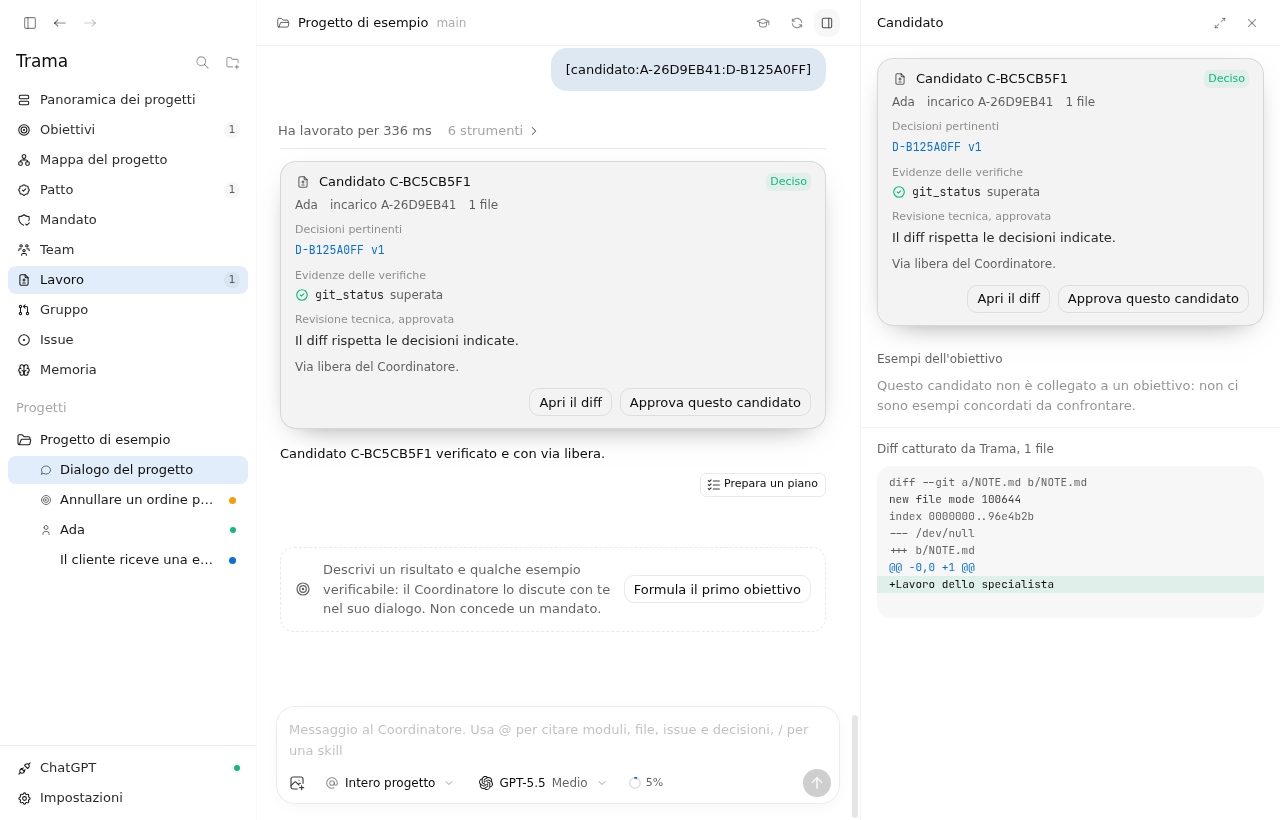
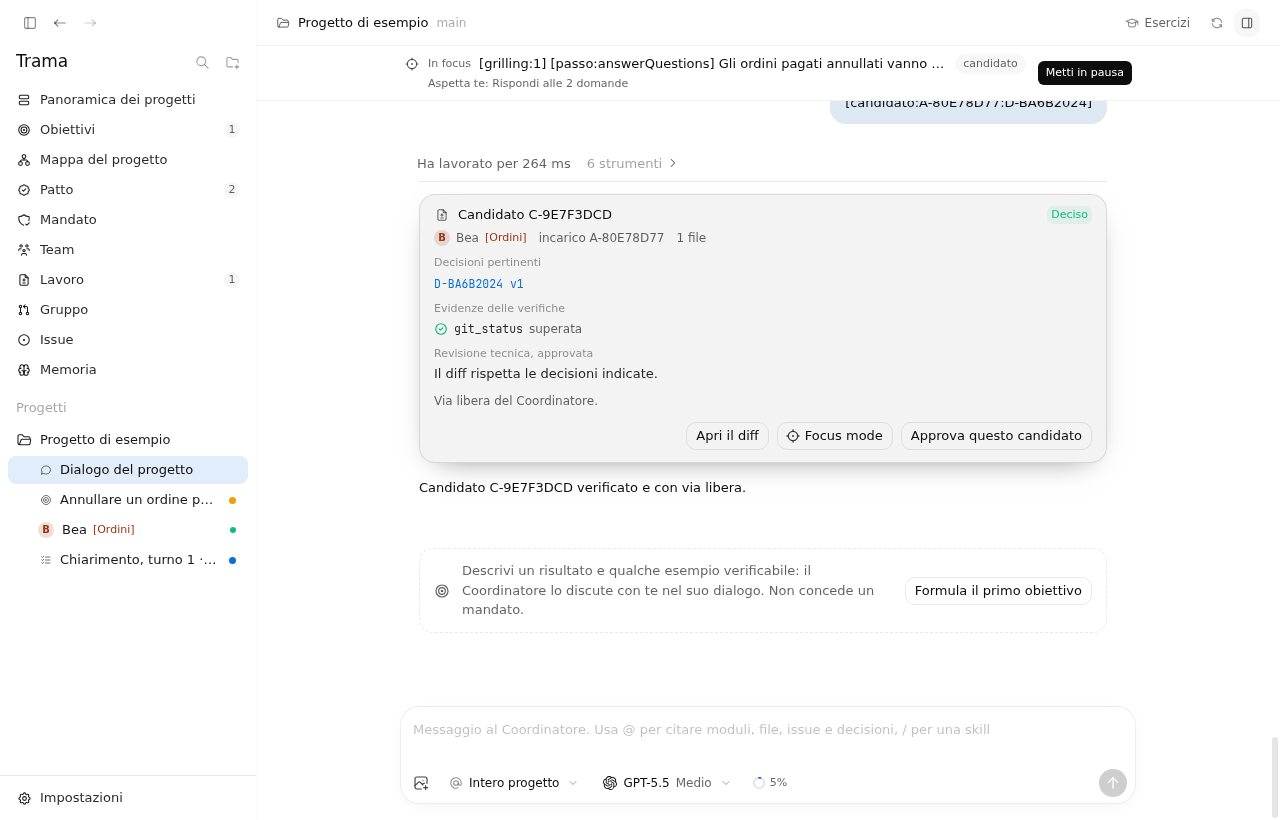
docs: refresh the README with the current features and status
Cover the focused work loop, the AI Hero method run natively end to
end, the assignment contract and developer report, presence and
overlap warnings, focus mode with native code review, Antigravity in
every role and the protected main branch. Update the status section
with the 26 September live Codex run and refresh the screenshots with
ui-check.

diff --git a/README.md b/README.md
@@ -18,7 +18,7 @@
 </div>
 
 > [!WARNING]
-> Trama is in **alpha**. The base path has run with real Claude and Pi accounts, but no change has yet gone from request to verified candidate on a real project. Read [Status and known limits](#status-and-known-limits) before relying on it.
+> Trama is in **alpha**. The base path has run with real Claude and Pi accounts. The first live run with real Codex (26 September, `gpt-6-luna`) went from a request to a developer's finished worktree, then stopped short of a verified candidate on a known bug ([issue #67 comment](https://github.com/emanueledenaro/trama/issues/67), [#204](https://github.com/emanueledenaro/trama/issues/204)). Read [Status and known limits](#status-and-known-limits) before relying on it.
 
 ## Why Trama
 
@@ -32,23 +32,27 @@ Trama puts one **Coordinator** between you and the agents:
 
 ## Features
 
-- **Grilling before planning.** A request is clarified in numbered rounds of decision cards, each with a recommended answer, using the original [`grilling`](docs/aihero-attribution.md) skill. The plan starts only when the round is answered.
-- **A full team per project.** The developers the Coordinator proposes, plus eleven fixed roles (QA, UX, research, documentation and domain, bug triage, spec review, Clean Code, regression guardian, security, performance, DevOps), each with its moment in the flow.
-- **Goals with examples.** Outcomes with accepted and rejected examples that tasks, candidates and decisions link to explicitly.
+- **The AI Hero method, run natively.** A request is clarified in numbered rounds with `grilling`; `domain-modeling` proposes glossary terms and ADRs from the decisions taken; `to-spec` turns the plan into a spec with the seams you confirm; `to-tickets` splits it into vertical slices with their acceptance criteria. Each developer ships a slice with `implement` and `tdd`. Bug triage, failed-check diagnosis and Clean Code's architecture review start on their own within the mandate. Every skill keeps Matt Pocock's original text, with a thin Trama binding.
+- **A focused work loop.** The chat leads with the task in focus, its phase and the one next step allowed right now; the rest wait in a queue, started ones first. Inside the mandate the Coordinator takes its own next moves - preparing the plan, assigning work, running checks - and stops only for product decisions, the mandate, the team and the merge.
+- **An assignment contract and a developer's report.** Every task carries its goal, the seams to test, the Pact decisions it depends on and the checks required; Trama refuses an incomplete one. Each developer closes with a structured report of files touched, tests written and seams covered - a claim, never evidence.
+- **Presence and collaboration.** The map, the focus bar and the Team view show who, person or agent, is working on which branch and files, shared over dedicated git refs with your consent. Overlaps are flagged at three levels, same module, same file, real conflict, and the Coordinator itself steers new assignments away from files a colleague already has open.
+- **Focus mode with native code review.** Open a candidate and Trama runs its real checks first, then two read-only passes of the `code-review` skill in parallel, Standards and Spec, against the candidate's base commit.
+- **Nine providers, every role.** Codex, Claude, Cursor, Grok, Droid, Devin, OpenCode, Antigravity and Pi behind one runtime interface. Antigravity now works in every role, not only for developers: read-only for the Coordinator, planners, reviewers and checks, edits only inside a developer's own worktree.
 - **Checks Trama runs itself.** `git_status`, `git_diff_check`, `swift_build`, `swift_test`, `node_test` and `node_typecheck`, with Node checks in a sandbox that allows only local networking.
-- **Nine providers.** Codex, Claude, Cursor, Grok, Droid, Devin, OpenCode, Antigravity and Pi behind one runtime interface.
-- **Skills included.** The full set of Matt Pocock's engineering and productivity skills, callable with `/` in the composer.
+- **Goals with examples.** Outcomes with accepted and rejected examples that tasks, candidates and decisions link to explicitly.
 - **Memory and learning.** The Coordinator keeps notes on you and the project, searches past conversations and maintains the skills it learns, ported from Hermes Agent.
 - **Repository map.** Swift and JavaScript/TypeScript projects are indexed into modules from their real paths, with secrets and symlinks excluded.
 
 <table>
   <tr>
-    <td width="50%"><img src="docs/images/readme/decision.png" alt="A decision card with two alternatives and a free answer field"></td>
-    <td width="50%"><img src="docs/images/readme/team.png" alt="The Team panel listing roles by moment"></td>
+    <td width="33%"><img src="docs/images/readme/decision.png" alt="A decision card with two alternatives and a free answer field"></td>
+    <td width="33%"><img src="docs/images/readme/team.png" alt="The Team panel listing fixed roles and developers by moment"></td>
+    <td width="33%"><img src="docs/images/readme/focus-mode.png" alt="Focus mode on a candidate, with its real checks and the Standards and Spec review"></td>
   </tr>
   <tr>
     <td align="center"><sub>A decision card: a concrete case, alternatives with examples, or your own words.</sub></td>
     <td align="center"><sub>The team, moment by moment.</sub></td>
+    <td align="center"><sub>Focus mode: real checks first, then Standards and Spec in parallel.</sub></td>
   </tr>
 </table>
 
@@ -62,7 +66,7 @@ There is no signed release yet, so Trama runs from source.
 
 - macOS, Linux or Windows, with Git and Node.js 22.
 - At least one provider you are already signed in to from its CLI. For Codex this means a **ChatGPT account**: Trama refuses API keys and non-OpenAI providers for Codex, so it never moves you to API billing silently.
-- Optional: [GitHub CLI](https://cli.github.com/) (`gh auth login`) for issues and pull requests.
+- Optional: [GitHub CLI](https://cli.github.com/) (`gh auth login`) for issues, pull requests and presence.
 - Optional: `bubblewrap` on Linux, so Node tests that open a local server can run in Trama's sandbox. macOS uses the built-in `sandbox-exec`.
 
 **Run it**
@@ -81,6 +85,7 @@ npm run dev
 3. Read the Coordinator's study of the project and confirm the developers it proposes.
 4. Send a request. Pick a module as context with `@` or a skill with `/`.
 5. Answer the rounds of questions and the mandate card. Only your answers enter the Pact and the mandate.
+6. Follow the focus bar for the task in focus and the queue behind it. Inside the mandate, the Coordinator keeps moving between rounds on its own; you step in for product decisions, the mandate, the team and the merge.
 
 ## How it works
 
@@ -88,27 +93,30 @@ npm run dev
 flowchart LR
     R[Request] --> G[Grilling rounds]
     G -->|your answers| P[Pact]
-    P --> PL[Plan]
-    PL -->|within the mandate| A[Tasks in worktrees]
+    P --> PL[Spec and slices]
+    PL -->|within the mandate| A[Assignment contract in worktrees]
     A --> C[Candidate]
-    C --> V[Checks run by Trama]
+    C --> V[Checks and focus mode review]
     V --> AP[Your approval]
     AP --> PR[Branch and pull request]
 ```
 
-1. **Clarify.** The Coordinator reads the code for facts and asks you only what the code cannot answer, one round at a time.
+1. **Clarify.** The Coordinator reads the code for facts and asks you only what the code cannot answer, one round at a time, with `grilling`.
 2. **Decide.** Each answer is a versioned decision in the Pact. Changing a decision invalidates only the work that depended on it.
-3. **Delegate.** Within the mandate, the Coordinator assigns tasks to developers. Each works in a dedicated worktree, with its provider and model recorded.
-4. **Verify.** A candidate carries its diff, the decisions it relies on and the check results. Trama runs the checks itself; a later relevant change revokes the approval.
-5. **Publish.** With your explicit action, Trama prepares an immutable commit and opens the pull request through `gh`.
+3. **Plan.** `to-spec` writes the request as a spec with the seams you confirm; `to-tickets` splits it into vertical slices in dependency order.
+4. **Delegate.** Within the mandate, the Coordinator assigns ready slices to developers, one each, through an assignment contract: goal, seams, decisions and checks required. Each works in a dedicated worktree with `implement` and `tdd`, and closes with a structured report.
+5. **Verify.** A candidate carries its diff, the decisions it relies on and the check results Trama ran itself. Focus mode adds a read-only Standards and Spec review on demand. A later relevant change revokes the approval.
+6. **Publish.** With your explicit action, Trama prepares an immutable commit and opens the pull request through `gh`.
 
-The vocabulary (Coordinator, Pact, mandate, candidate, moment) is defined in [CONTEXT.md](CONTEXT.md), and the reasons behind the design are in the [ADRs](docs/adr/).
+Throughout, presence shows who else is on the same files, and the Coordinator avoids assigning work where a colleague already has it open.
+
+The vocabulary (Coordinator, Pact, mandate, candidate, moment, presence, focus mode) is defined in [CONTEXT.md](CONTEXT.md), and the reasons behind the design are in the [ADRs](docs/adr/).
 
 ## Providers
 
 | Provider | Adapter | Tested with a real account |
 | --- | --- | --- |
-| Codex (ChatGPT) | yes | Not yet in the Electron app: the test account had used up its quota ([V09](docs/verifiche/v09-trama-su-trama-2026-09-24.md)) |
+| Codex (ChatGPT) | yes | Live in the Electron app on 26 September with real `gpt-6-luna`: study, team, mandate, assignment contract and a developer's finished worktree. Stopped before a verified candidate, on a bug in `verify_candidate` ([issue #67 comment](https://github.com/emanueledenaro/trama/issues/67), [#204](https://github.com/emanueledenaro/trama/issues/204)) |
 | Claude | yes | Base path: message, Trama tool, interrupt, restart, resume |
 | Pi | yes | Base path: message, Trama tool, interrupt, restart, resume |
 | Cursor, Grok, Devin, OpenCode | yes | No, fake CLIs and servers only |
@@ -124,7 +132,7 @@ The adapters are ported from [Synara](https://github.com/Emanuele-web04/synara) 
 | `TRAMA_CODEX_PATH` | Codex executable to use instead of the one in `PATH` |
 | `TRAMA_DATA_DIR` | Data folder to use instead of the default |
 
-Data lives in the user data folder under `Trama/Desktop`: `~/Library/Application Support/Trama/Desktop` on macOS, `~/.config/Trama/Desktop` on Linux, `%APPDATA%\Trama\Desktop` on Windows. What the Coordinator learns is stored under `Learning/` in the same folder, never in your repository. On first launch Trama imports recent projects from the former SwiftUI version without modifying its files.
+Data lives in the user data folder under `Trama/Desktop`: `~/Library/Application Support/Trama/Desktop` on macOS, `~/.config/Trama/Desktop` on Linux, `%APPDATA%\Trama\Desktop` on Windows. What the Coordinator learns is stored under `Learning/` in the same folder, never in your repository. Presence is shared over `refs/trama/presence/<user>` on your project's `origin`, only with your consent, never in the repository itself. On first launch Trama imports recent projects from the former SwiftUI version without modifying its files.
 
 ## Development
 
@@ -145,32 +153,35 @@ npm run dist        # package with electron-builder
 
 | Path | Contents |
 | --- | --- |
-| `app/src/main` | Main process: repository scanner, Coordinator, MCP tool server on `127.0.0.1`, Pact, mandate, team, goals, checks, GitHub, persistence |
+| `app/src/main` | Main process: repository scanner, Coordinator, MCP tool server on `127.0.0.1`, Pact, mandate, team, goals, checks, presence, GitHub, persistence |
 | `app/src/main/core/providers` | The nine provider adapters behind `AgentRuntime` |
 | `app/src/main/core/learning` | Memory and learning loop ported from [Hermes Agent](https://github.com/NousResearch/hermes-agent) ([ADR 0014](docs/adr/0014-apprendimento-di-hermes.md)) |
 | `app/src/main/core/nativeSkills.ts` | Delivers a bundled skill unchanged, with a binding to Trama's tools |
+| `app/src/main/core/audit.ts` | Focus mode: real checks first, then the `code-review` skill on two read-only sessions |
+| `app/src/main/core/presence.ts` | Presence over dedicated git refs, and overlap checks against colleagues' branches |
 | `app/src/preload` | Typed IPC bridge. The renderer has no Node access |
 | `app/src/renderer` | React, Tailwind CSS 4 and `@base-ui/react` on Synara's design tokens |
-| `app/src/shared` | Shared types and logic: timeline, grilling rounds, team roster |
+| `app/src/shared` | Shared types and logic: timeline, grilling rounds, team roster, presence, overlap |
 | `app/resources/AIHero` | Bundled skills, license and `bundle.json` with every renamed file |
 | `app/resources/DemoProject` | The sample project |
 | `app/test-fixtures/fake-codex.mjs` | Fake app server for tests and `ui-check`. Its replies are not Codex results |
 
 </details>
 
-CI ([`electron.yml`](.github/workflows/electron.yml)) runs type check, tests, build and `ui-check` on Ubuntu with Node 22. The [`release.yml`](.github/workflows/release.yml) workflow builds packages for macOS, Windows and Linux on every `v*` tag; they are signed and notarized only when the signing secrets are set.
+CI ([`electron.yml`](.github/workflows/electron.yml)) runs type check, tests, build and `ui-check` on Ubuntu with Node 22. The [`release.yml`](.github/workflows/release.yml) workflow builds packages for macOS, Windows and Linux on every `v*` tag; they are signed and notarized only when the signing secrets are set. `main` is a protected branch: changes land through a pull request, never a direct push.
 
 ## Status and known limits
 
-- **End to end.** No candidate has yet been declared and verified from start to finish on a real project. The full Codex path still has to run.
-- **Fixed roles.** Under a granted mandate, bug triage, diagnosis of failed checks and Clean Code's architecture review start on their own ([#148](https://github.com/emanueledenaro/trama/issues/148)). The other roles do not run yet: the parallel review of a candidate by every reviewer is still open ([#147](https://github.com/emanueledenaro/trama/issues/147)).
-- **Pull requests.** Publishing is tested up to the branch push. Creating the PR with `gh` has not been tested on a real repository.
-- **Sandbox.** The Node sandbox with local networking is tested on macOS only. On Windows, tests that open a local server fail under the Codex sandbox.
+- **End to end.** No candidate has yet been declared and verified end to end on a real project. The closest live run (26 September, real Codex `gpt-6-luna`) reached a developer's finished worktree and stopped before declaring a candidate, on a bug in `verify_candidate` ([issue #67 comment](https://github.com/emanueledenaro/trama/issues/67), [#204](https://github.com/emanueledenaro/trama/issues/204)).
+- **Candidate gate.** Focus mode reviews one candidate on demand with two axes, Standards and Spec. Running every fixed role over a candidate automatically, in parallel, is still open ([#147](https://github.com/emanueledenaro/trama/issues/147)).
+- **Pull requests.** Publishing is tested up to the branch push. Creating the PR with `gh` has not been tested from the app on a real repository.
+- **Sandbox.** The Node sandbox with local networking is tested on macOS only. On Windows, tests that open a local server fail under the Codex sandbox. The Linux `bubblewrap` path is coded but not tested on a real Linux machine.
 - **Provider switch.** Switching providers mid-conversation is verified only live.
+- **Presence.** Verified against a local bare remote and, once, directly against GitHub. A remote other than GitHub or a local folder, and a repository whose CI triggers on any push, are not verified.
 - **Distribution.** No signed or notarized package has been produced yet.
 - **Planning docs.** Some documents in `docs/` still describe the SwiftUI version.
 
-The complete list is in [ADR 0011](docs/adr/0011-app-desktop-electron-con-design-synara.md) and in [GitHub Issues](https://github.com/emanueledenaro/trama/issues). Code or a passing local test alone does not close a ticket.
+The complete list is in [ADR 0011](docs/adr/0011-app-desktop-electron-con-design-synara.md) and in [GitHub Issues](https://github.com/emanueledenaro/trama/issues). Code or a passing local test alone does not close a ticket; the verification logs are in [`docs/verifiche/`](docs/verifiche/).
 
 ## Contributing
 
@@ -178,9 +189,9 @@ Issues and pull requests are welcome. Before you start:
 
 - Read [AGENTS.md](AGENTS.md) for the project rules and [CONTEXT.md](CONTEXT.md) for the vocabulary.
 - Commits follow [Conventional Commits](https://www.conventionalcommits.org/en/v1.0.0/), for example `feat(app): add the search palette`.
-- Branches use `feature/`, `bugfix/` or `hotfix/` with a short English description.
+- Branches follow [Conventional Branch](https://conventionalbranch.org/): `feature/`, `bugfix/` or `hotfix/` with a short English description.
 - Source code, comments and commit messages are in English. The interface, issues and pull requests are in Italian.
-- Run `npm run typecheck` and `npm test` in `app/` before opening a pull request.
+- Run `npm run typecheck` and `npm test` in `app/` before opening a pull request. `main` is protected: only a pull request with green CI gets merged.
 
 ## Acknowledgements
 
